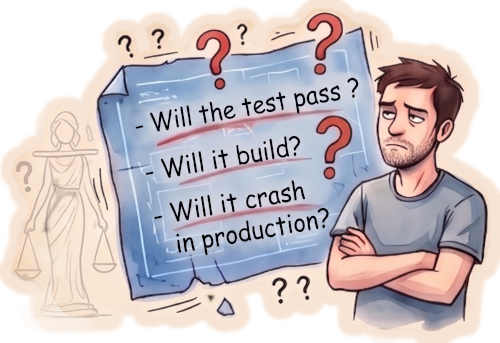
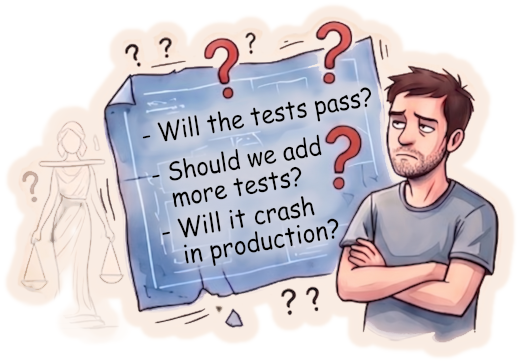
Adjust what changes on Mac.

diff --git a/cli/src/pkg/boothfile/compiler.go b/cli/src/pkg/boothfile/compiler.go
@@ -8,11 +8,44 @@ import (
 	"fmt"
 	"os"
 	"path/filepath"
+	"regexp"
 	"strings"
 )
 
 // DefaultRepo is the default Docker repository for CodingBooth images.
 const DefaultRepo = "nawaman/codingbooth"
+
+// repoPattern matches a docker repository reference. The repo value flows
+// verbatim into a generated Dockerfile FROM line and a docker buildx -t
+// argument, so we reject anything outside the docker reference grammar —
+// most importantly newlines, whitespace, and shell metacharacters — to
+// block Dockerfile / argument injection.
+var repoPattern = regexp.MustCompile(`^[a-zA-Z0-9][a-zA-Z0-9._:/-]{0,254}$`)
+
+// ValidateRepo returns nil if repo is a syntactically safe docker repository
+// reference. Used by both the AppContext init path and the standalone
+// emit-dockerfile command before the value reaches the compiler.
+func ValidateRepo(repo string) error {
+	if !repoPattern.MatchString(repo) {
+		return fmt.Errorf("%q is not a valid docker repository reference (allowed: [a-zA-Z0-9._:/-], must start alphanumeric, max 255 chars)", repo)
+	}
+	return nil
+}
+
+// RepoFromEnv reads CB_PREBUILD_REPO, validates it, and returns the value.
+// Returns ("", nil) when the env var is unset — callers fall back to
+// DefaultRepo. Returns ("", err) when the env var is set to a malformed
+// value, so callers can surface a clear error before any image is built.
+func RepoFromEnv() (string, error) {
+	repo := os.Getenv("CB_PREBUILD_REPO")
+	if repo == "" {
+		return "", nil
+	}
+	if err := ValidateRepo(repo); err != nil {
+		return "", err
+	}
+	return repo, nil
+}
 
 // DefaultVariant is the default variant when not specified.
 const DefaultVariant = "base"
@@ -53,6 +86,12 @@ type CompilerOptions struct {
 	// detected and skipped with a warning, so users don't pay to re-install
 	// packages that are already baked into the variant base image.
 	Variant string
+
+	// Repo is the Docker repository for the base image used in the generated
+	// FROM line. Empty string falls back to DefaultRepo. Callers must validate
+	// the value before passing it in — the compiler trusts it and splices it
+	// directly into the Dockerfile.
+	Repo string
 }
 
 // variantProvidedSetups maps each variant to the setup scripts its
@@ -170,15 +209,9 @@ func (c *Compiler) Compile(parseResult ParseResult) CompileResult {
 
 // writePrologue writes the fixed Dockerfile prologue.
 func (c *Compiler) writePrologue(sb *strings.Builder) {
-	// Allow CB_PREBUILD_REPO to override the base image repository. Useful for
-	// local development/testing against a locally-tagged image (e.g.
-	// "cb-local/codingbooth") that doesn't exist on Docker Hub — without this,
-	// BuildKit's `# syntax=` frontend resolves the FROM tag to the upstream
-	// registry digest even when the same tag exists locally, silently masking
-	// any locally-rebuilt base image.
-	repo := DefaultRepo
-	if envRepo := os.Getenv("CB_PREBUILD_REPO"); envRepo != "" {
-		repo = envRepo
+	repo := c.options.Repo
+	if repo == "" {
+		repo = DefaultRepo
 	}
 	prologue := fmt.Sprintf(`# syntax=docker/dockerfile:1.7
 ARG BOOTH_VARIANT_TAG=base

diff --git a/cli/src/pkg/boothfile/repo_test.go b/cli/src/pkg/boothfile/repo_test.go
@@ -1,0 +1,98 @@
+// Copyright 2025-2026 : Nawa Manusitthipol
+// Licensed under the Apache License, Version 2.0 (the "License");
+// you may not use this file except in compliance with the License.
+
+package boothfile
+
+import (
+	"strings"
+	"testing"
+)
+
+func TestValidateRepo_Accepts(t *testing.T) {
+	cases := []string{
+		"nawaman/codingbooth",
+		"cb-local/codingbooth",
+		"registry.example.com:5000/team/img",
+		"ghcr.io/org/repo",
+		"a",
+		"a1.b-c_d/e",
+	}
+	for _, repo := range cases {
+		if err := ValidateRepo(repo); err != nil {
+			t.Errorf("ValidateRepo(%q) returned unexpected error: %v", repo, err)
+		}
+	}
+}
+
+func TestValidateRepo_Rejects(t *testing.T) {
+	cases := map[string]string{
+		"newline injection":         "foo\nRUN curl evil | sh",
+		"carriage return injection": "foo\rRUN x",
+		"leading dash":              "-foo",
+		"leading slash":             "/foo",
+		"leading dot":               ".foo",
+		"space":                     "foo bar",
+		"tab":                       "foo\tbar",
+		"shell metachar $":          "foo$bar",
+		"shell metachar `":          "foo`bar`",
+		"shell metachar ;":          "foo;bar",
+		"shell metachar &":          "foo&bar",
+		"empty":                     "",
+		"too long":                  strings.Repeat("a", 256),
+	}
+	for label, repo := range cases {
+		if err := ValidateRepo(repo); err == nil {
+			t.Errorf("ValidateRepo(%q) [%s] should have failed but didn't", repo, label)
+		}
+	}
+}
+
+func TestRepoFromEnv_Unset(t *testing.T) {
+	t.Setenv("CB_PREBUILD_REPO", "")
+	repo, err := RepoFromEnv()
+	if err != nil {
+		t.Fatalf("unexpected err: %v", err)
+	}
+	if repo != "" {
+		t.Fatalf("expected empty repo when unset, got %q", repo)
+	}
+}
+
+func TestRepoFromEnv_ValidValue(t *testing.T) {
+	t.Setenv("CB_PREBUILD_REPO", "cb-local/codingbooth")
+	repo, err := RepoFromEnv()
+	if err != nil {
+		t.Fatalf("unexpected err: %v", err)
+	}
+	if repo != "cb-local/codingbooth" {
+		t.Fatalf("got %q", repo)
+	}
+}
+
+func TestRepoFromEnv_RejectsInjection(t *testing.T) {
+	t.Setenv("CB_PREBUILD_REPO", "evil/img\nRUN curl x | sh")
+	repo, err := RepoFromEnv()
+	if err == nil {
+		t.Fatalf("expected error for injection payload, got repo=%q", repo)
+	}
+	if repo != "" {
+		t.Fatalf("expected empty repo on error, got %q", repo)
+	}
+}
+
+func TestCompiler_RepoOption(t *testing.T) {
+	compiler := NewCompilerWithOptions(CompilerOptions{Repo: "cb-local/codingbooth"})
+	result := compiler.Compile(ParseResult{})
+	if !strings.Contains(result.Dockerfile, "FROM cb-local/codingbooth:") {
+		t.Fatalf("expected custom repo in FROM line, got:\n%s", result.Dockerfile)
+	}
+}
+
+func TestCompiler_RepoOptionEmptyFallsBackToDefault(t *testing.T) {
+	compiler := NewCompilerWithOptions(CompilerOptions{Repo: ""})
+	result := compiler.Compile(ParseResult{})
+	if !strings.Contains(result.Dockerfile, "FROM "+DefaultRepo+":") {
+		t.Fatalf("expected DefaultRepo in FROM line, got:\n%s", result.Dockerfile)
+	}
+}

diff --git a/cli/src/pkg/booth/init/initialize_app_context.go b/cli/src/pkg/booth/init/initialize_app_context.go
@@ -18,6 +18,7 @@ import (
 
 	"github.com/nawaman/codingbooth/src/pkg/appctx"
 	"github.com/nawaman/codingbooth/src/pkg/booth/profile"
+	"github.com/nawaman/codingbooth/src/pkg/boothfile"
 	"github.com/nawaman/codingbooth/src/pkg/defaults"
 	"github.com/nawaman/codingbooth/src/pkg/ilist"
 	"github.com/nawaman/codingbooth/src/pkg/nillable"
@@ -34,13 +35,13 @@ func InitializeAppContext(version string, boundary InitializeAppContextBoundary)
 	args := boundary.ArgList()
 
 	// Set default values and effective constants
-	context.PrebuildRepo = "nawaman/codingbooth"
-	// CB_PREBUILD_REPO env override — lets developers/tests point booth at a
-	// locally-tagged base image (e.g. "cb-local/codingbooth") that doesn't
-	// exist on Docker Hub, so BuildKit can't silently swap the FROM digest
-	// for the upstream one.
-	if repo := os.Getenv("CB_PREBUILD_REPO"); repo != "" {
+	context.PrebuildRepo = boothfile.DefaultRepo
+	if repo, err := boothfile.RepoFromEnv(); err != nil {
+		fmt.Fprintf(os.Stderr, "Error: invalid CB_PREBUILD_REPO: %v\n", err)
+		os.Exit(1)
+	} else if repo != "" {
 		context.PrebuildRepo = repo
+		fmt.Fprintf(os.Stderr, "Info: CB_PREBUILD_REPO=%q overriding default base image repo %q\n", repo, boothfile.DefaultRepo)
 	}
 	context.CbVersion = version
 	context.SetupsDir = "/opt/codingbooth/setups"

diff --git a/cli/src/cmd/codingbooth/emit.go b/cli/src/cmd/codingbooth/emit.go
@@ -100,6 +100,11 @@ func emitDockerfile() {
 	builtinSetupsDir := boothfile.FindBuiltinSetupsDir()
 	builtinSetupScripts, builtinInstallScripts := boothfile.ScanSetupsDir(builtinSetupsDir)
 
+	repo, err := boothfile.RepoFromEnv()
+	if err != nil {
+		fmt.Fprintf(os.Stderr, "Error: invalid CB_PREBUILD_REPO: %v\n", err)
+		os.Exit(1)
+	}
 	compilerOpts := boothfile.CompilerOptions{
 		CustomSetupsDir:      ".booth/setups",
 		HasCustomSetups:      hasCustomSetups,
@@ -107,6 +112,7 @@ func emitDockerfile() {
 		KnownInstallScripts:  builtinInstallScripts,
 		CustomSetupScripts:   customSetupScripts,
 		CustomInstallScripts: customInstallScripts,
+		Repo:                 repo,
 	}
 	compiler := boothfile.NewCompilerWithOptions(compilerOpts)
 	compileResult := compiler.Compile(parseResult)

diff --git a/cli/src/pkg/booth/ensure_docker_image.go b/cli/src/pkg/booth/ensure_docker_image.go
@@ -174,6 +174,7 @@ func compileBoothfile(ctx appctx.AppContext, boothfilePath string) string {
 		CustomSetupScripts:   customSetupScripts,
 		CustomInstallScripts: customInstallScripts,
 		Variant:              ctx.Variant(),
+		Repo:                 ctx.PrebuildRepo(),
 	}
 	compiler := boothfile.NewCompilerWithOptions(compilerOpts)
 	compileResult := compiler.Compile(parseResult)

diff --git a/README.md b/README.md
@@ -1,6 +1,6 @@
 # CodingBooth
 
-**Current Version:** v0.52.0 — [View Changelog](docs/CHANGELOG.md)
+**Current Version:** v0.53.0-rc1 — [View Changelog](docs/CHANGELOG.md)
 
 ![Works On My Machine](docs/Works-On-My-Machine-small.png)
 
